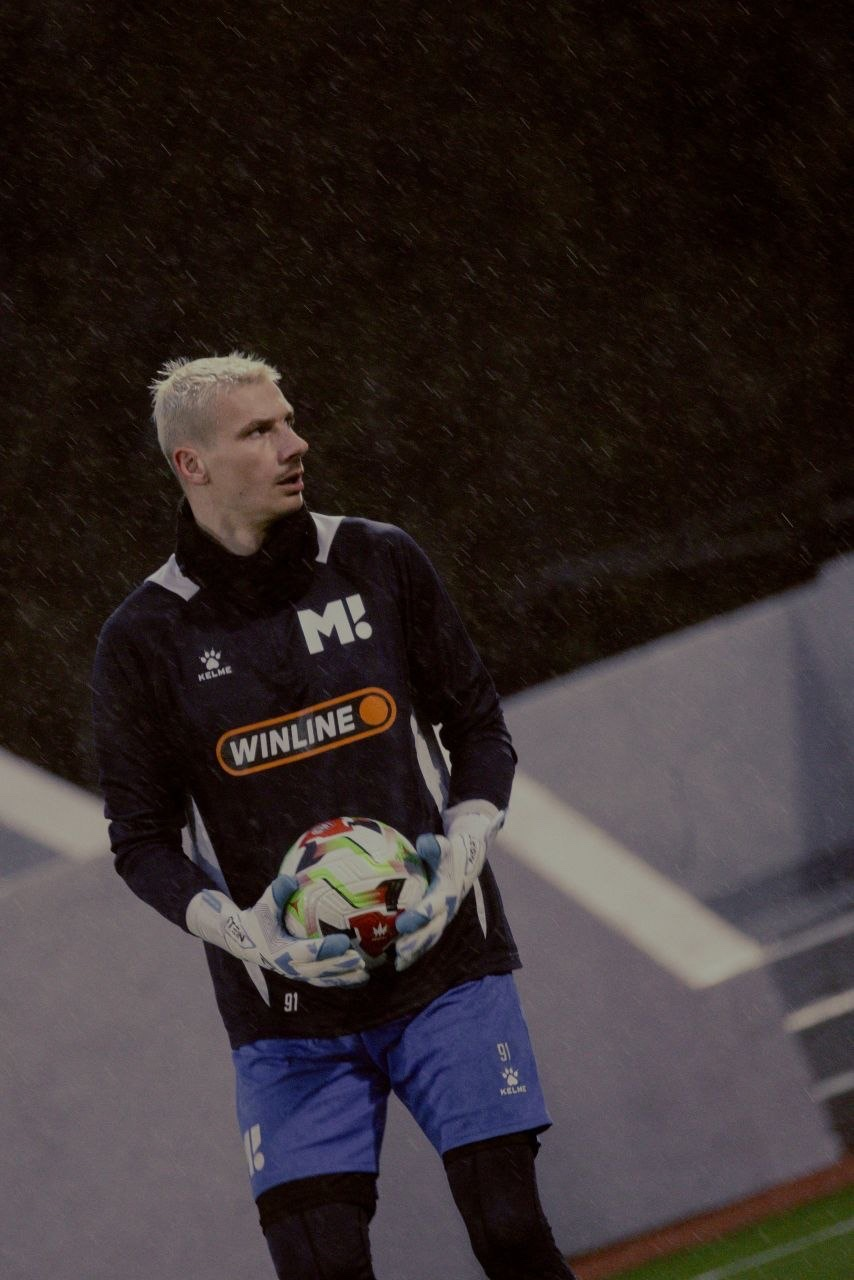
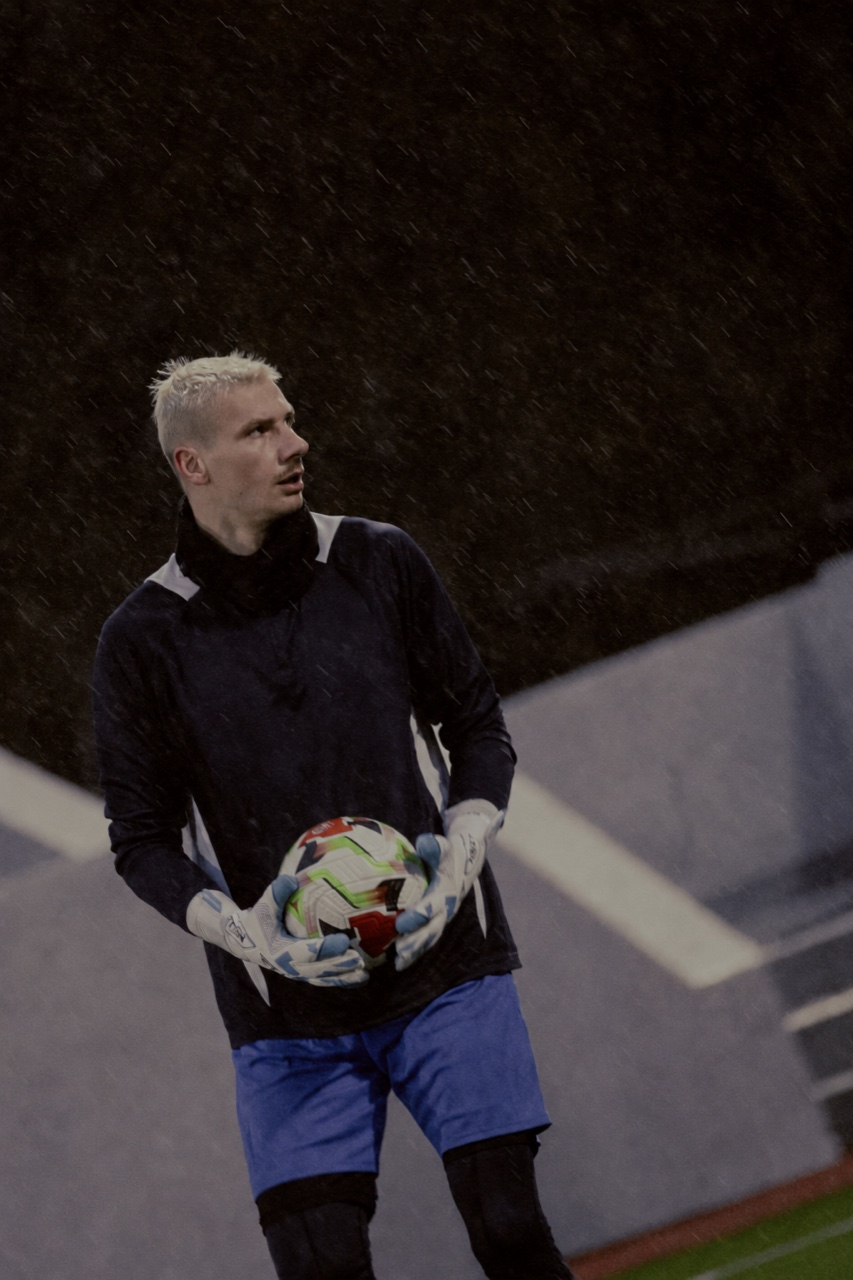
Пять разных структур вместо двух одинаковых полос, логотипы убраны
Блоки «Форматы» и «Работа» стояли на одном модуле — фото слева,
плоскость справа, одинаковая высота, кадр режется через cover.
Отсюда и «блоки одинаковые», и «фото странно обрезались».

Теперь каждый блок своей структуры: герой — горизонталь в оба края
с текстом под ней; форматы — узкая вертикальная врезка у левого края
и индекс справа; о тренере — текст слева, портрет справа в нативной
пропорции; стоимость — только текст; работа — горизонтальная полоса
в оба края и индекс под ней. Модуль .band удалён.

Портрет заменён на отретушированный: спонсорские надписи и эмблемы
с джерси и шорт убраны, лицо, поза, мяч, дождь и свет не тронуты.

diff --git a/sborka/index.html b/sborka/index.html
@@ -146,33 +146,40 @@ nav:focus-within{transform:none}
     align-self:auto}
 }
 
-/* ── полоса-сплит (пока используется в «Форматах» и «Работе») ── */
-.band{display:grid;grid-template-columns:1fr 1fr;gap:0;width:100%;min-height:clamp(560px,82vh,780px)}
-.band figure{position:relative;overflow:hidden}
-.band img{position:absolute;inset:0;width:100%;height:100%;object-fit:cover;
-  object-position:var(--pos-d,50% 50%)}
-.band .plane{background:var(--raised);display:flex;flex-direction:column;justify-content:center;
-  padding:clamp(64px,12vh,144px) 80px}
-.band.photo-left .plane{padding-right:var(--rail)}
-.band .plane .label{display:block;margin-bottom:14px}
-.band .plane .h2{margin-bottom:8px}
+/* ── 01 ФОРМАТЫ: узкая вертикальная врезка у левого края + индекс ── */
+.slice{display:grid;grid-template-columns:clamp(260px,26vw,420px) minmax(0,1fr);gap:0;
+  align-items:start}
+.slice figure{position:relative;aspect-ratio:960/1280;overflow:hidden;background:var(--bg)}
+.slice figure img{width:100%;height:100%;object-fit:cover;object-position:50% 30%}
+.slice .col{padding:0 var(--rail) 0 clamp(40px,6vw,96px)}
+.slice .label{display:block;margin-bottom:14px}
+.slice .h2{margin-bottom:8px}
 @media (max-width:900px){
-  .band{grid-template-columns:1fr;min-height:0}
-  .band figure{order:-1;height:auto;aspect-ratio:3/4}
-  .band.wide figure{aspect-ratio:4/5}
-  .band img{object-position:var(--pos-m,50% 50%)}
-  .band .plane{padding:48px var(--gutter)}
-  .band.photo-left .plane{padding-right:var(--gutter)}
+  .slice{grid-template-columns:1fr}
+  .slice figure{aspect-ratio:16/11}
+  .slice .col{padding:clamp(28px,6vw,40px) var(--gutter) 0}
 }
 
-.index{margin-top:40px}
+/* ── 04 РАБОТА: горизонтальная полоса в оба края + индекс под ней ── */
+.reel figure{position:relative;width:100%;aspect-ratio:16/9;overflow:hidden;background:var(--bg)}
+.reel figure img{width:100%;height:100%;object-fit:cover;object-position:50% 42%}
+.reel .under{max-width:var(--maxw);margin:0 auto;padding:40px var(--gutter) 0;
+  display:grid;grid-template-columns:minmax(0,320px) minmax(0,1fr);gap:clamp(40px,6vw,96px);
+  align-items:start}
+.reel .under .label{display:block;margin-bottom:14px}
+@media (max-width:900px){
+  .reel figure{aspect-ratio:4/3}
+  .reel .under{grid-template-columns:1fr;gap:24px;padding-top:28px}
+}
+
+.index{margin-top:36px}
 .index li{padding:22px 0;border-top:1px solid var(--rule)}
 .index li:last-child{border-bottom:1px solid var(--rule)}
 .index b{display:block;font-family:"Onest",sans-serif;font-weight:var(--disp-w);
   font-size:clamp(28px,3.4vw,44px);line-height:1.1;letter-spacing:-.028em;margin-bottom:6px}
 .index span{display:block;font-size:15px;line-height:1.5;color:var(--dim);max-width:44ch}
 
-.idx{margin-top:40px}
+.idx{margin-top:0}
 .idx li{display:grid;grid-template-columns:40px 1fr;align-items:baseline;padding:20px 0;
   border-top:1px solid var(--rule);font-family:"Onest",sans-serif;font-weight:300;
   font-size:clamp(28px,3.6vw,52px);line-height:1.05;letter-spacing:-.03em}
@@ -253,9 +260,11 @@ footer{padding:28px 0 44px;border-top:1px solid var(--rule);font-size:14px;color
 </header>
 
 <section id="formaty">
-  <div class="band photo-left">
-    <figure><img src="img/w1.jpg" width="900" height="1200" loading="lazy" alt="Николай в воротах на тренировке" style="--pos-d:50% 30%;--pos-m:50% 45%"></figure>
-    <div class="plane">
+  <div class="slice">
+    <figure>
+      <img src="img/w1.jpg" width="960" height="1280" loading="lazy" alt="Николай в прыжке за мячом">
+    </figure>
+    <div class="col">
       <span class="label"><i>01</i>Форматы</span>
       <h2 class="h2">Как можно заниматься</h2>
       <ul class="index">
@@ -296,11 +305,15 @@ footer{padding:28px 0 44px;border-top:1px solid var(--rule);font-size:14px;color
 </section>
 
 <section id="rabota">
-  <div class="band photo-left wide">
-    <figure><img src="img/w4.jpg" width="1200" height="899" loading="lazy" alt="Николай в игре" style="--pos-d:50% 45%;--pos-m:50% 50%"></figure>
-    <div class="plane">
-      <span class="label"><i>04</i>Работа</span>
-      <h2 class="h2">Как это выглядит</h2>
+  <div class="reel">
+    <figure>
+      <img src="img/w4.jpg" width="1200" height="899" loading="lazy" alt="Николай в игре на поле">
+    </figure>
+    <div class="under">
+      <div>
+        <span class="label"><i>04</i>Работа</span>
+        <h2 class="h2">Как это выглядит</h2>
+      </div>
       <ol class="idx">
         <li><i>01</i>Выход один на один</li>
         <li><i>02</i>Ловля верхом</li>
